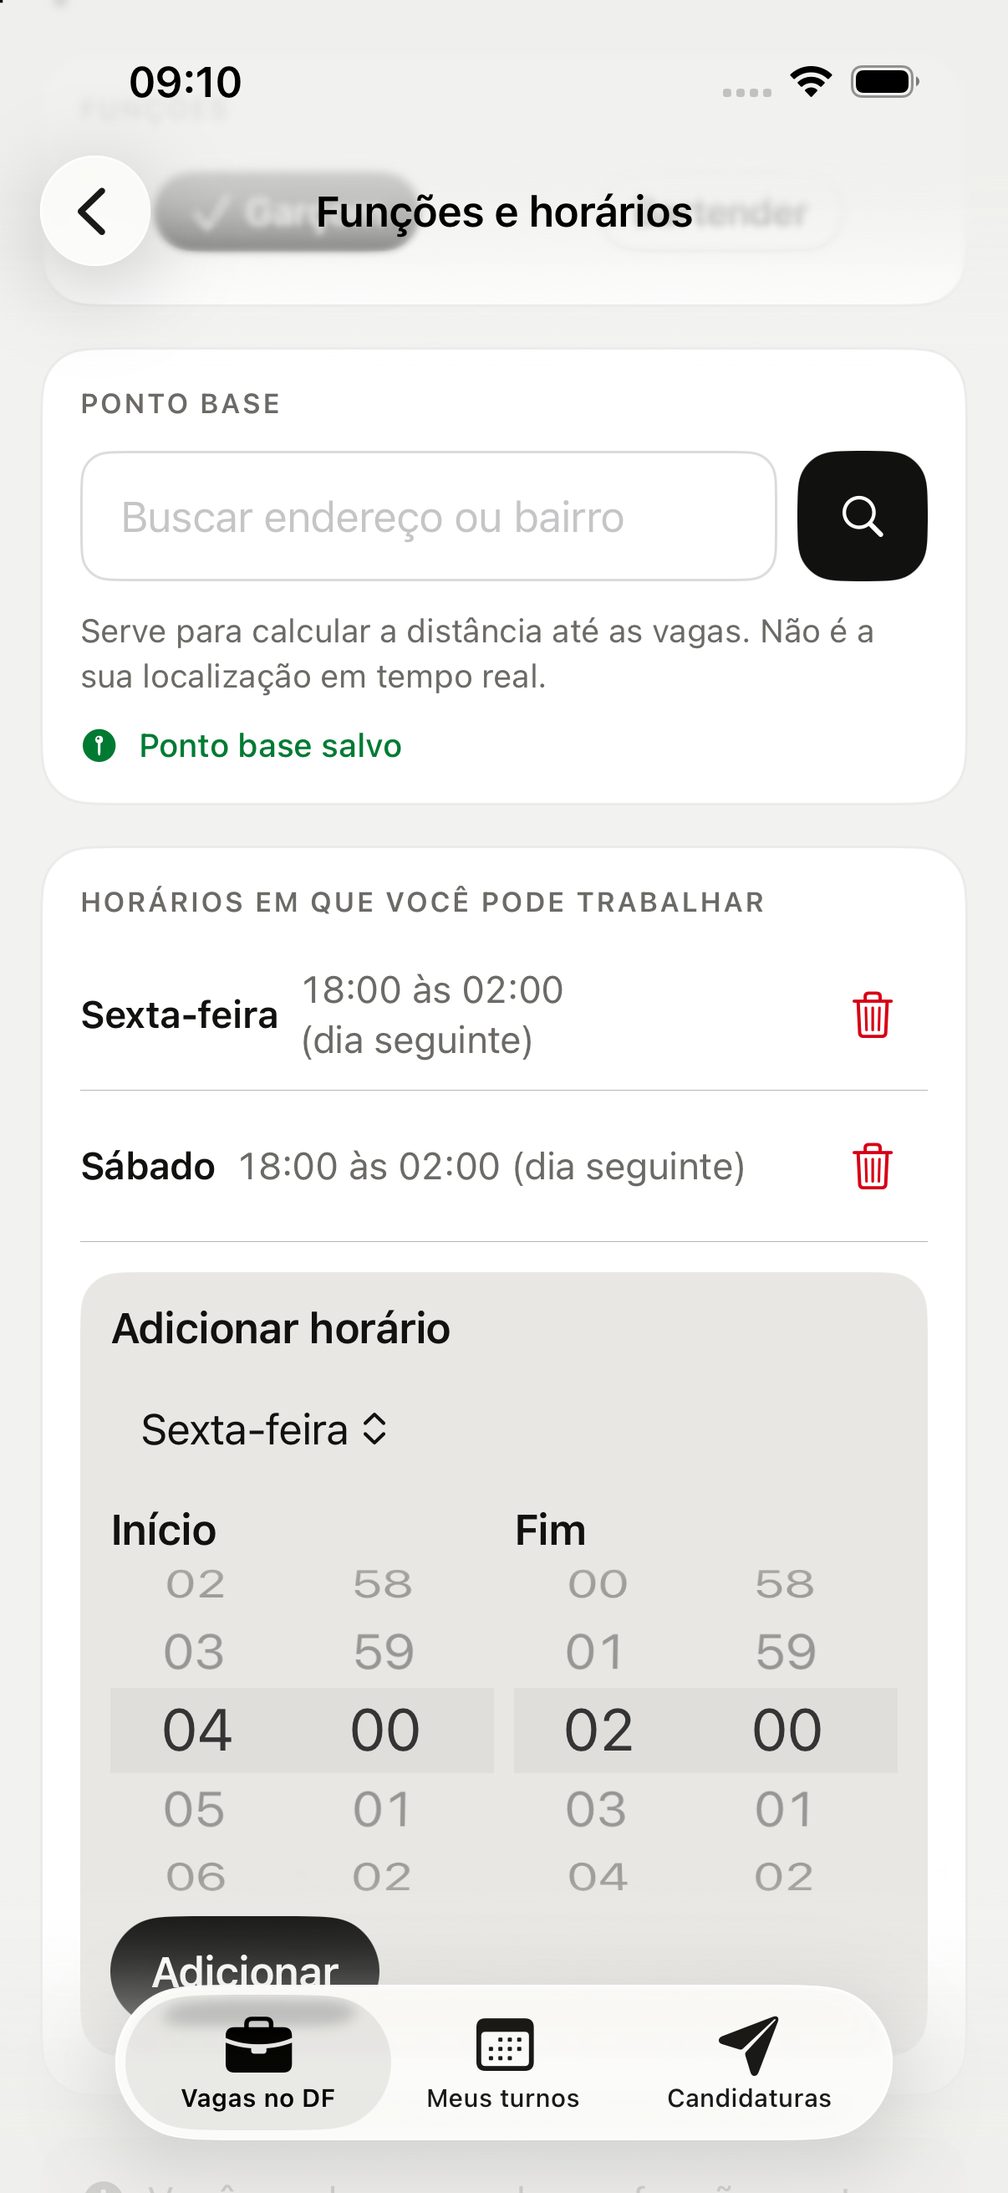
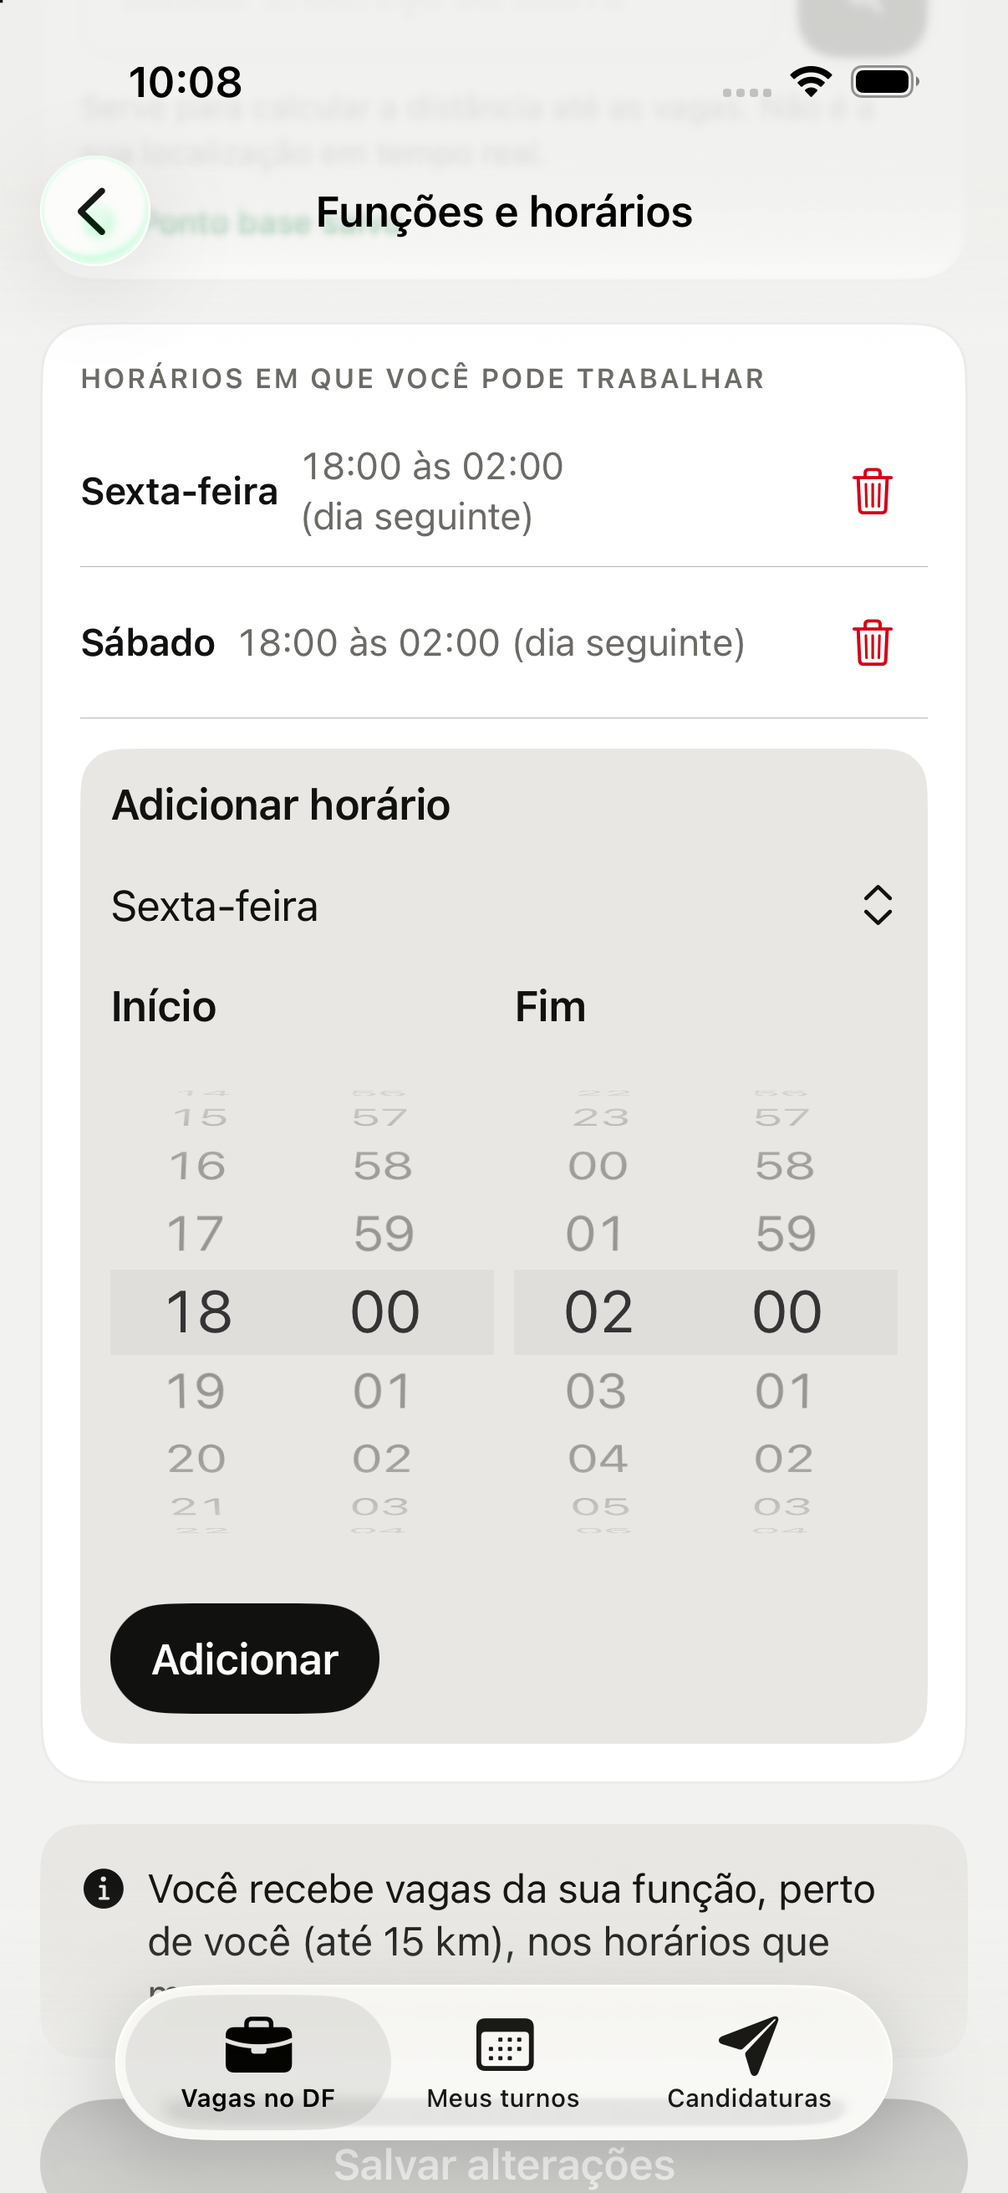
fix(ios): corrigir seletores em AX5 e cobrir limites de horário

diff --git a/iOS/Sources/Apresentacao/Fluxos/Profissional/TelaPerfilProfissional.swift b/iOS/Sources/Apresentacao/Fluxos/Profissional/TelaPerfilProfissional.swift
@@ -252,20 +252,31 @@ public struct TelaPerfilProfissional: View {
                     .font(FrilaTipo.rotuloDoCampo)
                     .foregroundStyle(FrilaCor.texto)
 
-                Picker(selection: $viewModel.diaNovo) {
-                    Text(verbatim: TextosDoProfissional.Perfil.domingo).tag(0)
-                    Text(verbatim: TextosDoProfissional.Perfil.segunda).tag(1)
-                    Text(verbatim: TextosDoProfissional.Perfil.terca).tag(2)
-                    Text(verbatim: TextosDoProfissional.Perfil.quarta).tag(3)
-                    Text(verbatim: TextosDoProfissional.Perfil.quinta).tag(4)
-                    Text(verbatim: TextosDoProfissional.Perfil.sexta).tag(5)
-                    Text(verbatim: TextosDoProfissional.Perfil.sabado).tag(6)
+                Menu {
+                    Picker(selection: $viewModel.diaNovo) {
+                        Text(verbatim: TextosDoProfissional.Perfil.domingo).tag(0)
+                        Text(verbatim: TextosDoProfissional.Perfil.segunda).tag(1)
+                        Text(verbatim: TextosDoProfissional.Perfil.terca).tag(2)
+                        Text(verbatim: TextosDoProfissional.Perfil.quarta).tag(3)
+                        Text(verbatim: TextosDoProfissional.Perfil.quinta).tag(4)
+                        Text(verbatim: TextosDoProfissional.Perfil.sexta).tag(5)
+                        Text(verbatim: TextosDoProfissional.Perfil.sabado).tag(6)
+                    } label: {
+                        Text(verbatim: TextosDoProfissional.Perfil.diaSemana)
+                    }
                 } label: {
-                    Text(verbatim: TextosDoProfissional.Perfil.diaSemana)
+                    HStack {
+                        Text(verbatim: PerfilProfissionalViewModel.nomeDoDia(viewModel.diaNovo))
+                            .fixedSize(horizontal: false, vertical: true)
+                        Spacer(minLength: FrilaEspaco.minimo)
+                        Image(systemName: "chevron.up.chevron.down")
+                            .accessibilityHidden(true)
+                    }
+                    .frame(maxWidth: .infinity, minHeight: FrilaMetrica.alvoMinimo, alignment: .leading)
+                    .contentShape(Rectangle())
                 }
-                .pickerStyle(.menu)
-                .frame(maxWidth: .infinity, minHeight: FrilaMetrica.alvoMinimo, alignment: .leading)
-                .contentShape(Rectangle())
+                .accessibilityLabel(TextosDoProfissional.Perfil.diaSemana)
+                .accessibilityValue(PerfilProfissionalViewModel.nomeDoDia(viewModel.diaNovo))
                 .accessibilityIdentifier("picker-dia-semana")
 
                 HStack(alignment: .top, spacing: FrilaEspaco.pequeno) {
@@ -279,8 +290,9 @@ public struct TelaPerfilProfissional: View {
                         .datePickerStyle(.wheel)
                         .labelsHidden()
                         .frame(minWidth: 0, maxWidth: .infinity)
-                        .frame(height: 132)
-                        .clipped()
+                        .frame(height: dynamicTypeSize.isAccessibilitySize ? 248 : 216)
+                        .clipShape(.rect)
+                        .contentShape(Rectangle())
                         .accessibilityIdentifier("campo-hora-inicio")
                     }
                     VStack(alignment: .leading, spacing: FrilaEspaco.minimo) {
@@ -293,8 +305,9 @@ public struct TelaPerfilProfissional: View {
                         .datePickerStyle(.wheel)
                         .labelsHidden()
                         .frame(minWidth: 0, maxWidth: .infinity)
-                        .frame(height: 132)
-                        .clipped()
+                        .frame(height: dynamicTypeSize.isAccessibilitySize ? 248 : 216)
+                        .clipShape(.rect)
+                        .contentShape(Rectangle())
                         .accessibilityIdentifier("campo-hora-fim")
                     }
                 }
@@ -312,6 +325,7 @@ public struct TelaPerfilProfissional: View {
                 }
                 .buttonStyle(.plain)
                 .contentShape(Rectangle())
+                .accessibilityLabel(TextosDoProfissional.Perfil.adicionarHorario)
                 .accessibilityIdentifier("botao-adicionar-janela")
             }
             .padding(FrilaEspaco.compacto)

diff --git a/iOS/Tests/Unitarios/PerfilProfissionalViewModelTests.swift b/iOS/Tests/Unitarios/PerfilProfissionalViewModelTests.swift
@@ -95,6 +95,59 @@ struct PerfilProfissionalViewModelTests {
         #expect(api.dadosPerfilCriado == nil)
     }
 
+    @Test("Faixa pendente 23:59–00:00 aceita a passagem da meia-noite")
+    func janelaPendenteNaViradaDoDia() async throws {
+        let api = criarDubleApi()
+        let vm = PerfilProfissionalViewModel(api: api)
+        vm.alternarFuncao(UUID())
+        vm.definirPontoBase(try Coordenada(latitude: -15.8, longitude: -47.9))
+        vm.inicioNovo = try #require(Calendar.current.date(bySettingHour: 23, minute: 59, second: 0, of: .now))
+        vm.fimNovo = try #require(Calendar.current.date(bySettingHour: 0, minute: 0, second: 0, of: .now))
+        let janela = JanelaDeDisponibilidade(diaDaSemana: 5, inicio: try HoraDoDia("23:59"), fim: try HoraDoDia("00:00"))
+
+        #expect(await vm.salvar())
+        #expect(api.dadosPerfilCriado?.disponibilidades == [janela])
+        #expect(vm.mensagemDeErro == nil)
+    }
+
+    @Test("Faixa pendente 00:00–00:00 rejeita duração zero sem enviar à API")
+    func janelaPendenteMeiaNoiteIgualRejeitada() async throws {
+        let api = criarDubleApi()
+        let vm = PerfilProfissionalViewModel(api: api)
+        vm.alternarFuncao(UUID())
+        vm.definirPontoBase(try Coordenada(latitude: -15.8, longitude: -47.9))
+        vm.inicioNovo = try #require(Calendar.current.date(bySettingHour: 0, minute: 0, second: 0, of: .now))
+        vm.fimNovo = vm.inicioNovo
+
+        #expect(await vm.salvar() == false)
+        #expect(vm.temJanelaPendente)
+        #expect(vm.disponibilidades.isEmpty)
+        #expect(vm.mensagemDeErro == TextosDoProfissional.Perfil.erroJanelaDuracaoZero)
+        #expect(api.chamadasCriarPerfil == 0)
+    }
+
+    @Test("Corrigir a faixa pendente inválida permite salvar e limpa a mensagem anterior")
+    func corrigirJanelaPendenteLimpaMensagem() async throws {
+        let api = criarDubleApi()
+        let vm = PerfilProfissionalViewModel(api: api)
+        vm.alternarFuncao(UUID())
+        vm.definirPontoBase(try Coordenada(latitude: -15.8, longitude: -47.9))
+        vm.inicioNovo = try #require(Calendar.current.date(bySettingHour: 18, minute: 0, second: 0, of: .now))
+        vm.fimNovo = vm.inicioNovo
+        #expect(await vm.salvar() == false)
+        #expect(vm.mensagemDeErro == TextosDoProfissional.Perfil.erroJanelaDuracaoZero)
+        #expect(api.chamadasCriarPerfil == 0)
+
+        vm.fimNovo = try #require(Calendar.current.date(bySettingHour: 2, minute: 0, second: 0, of: .now))
+        let janela = JanelaDeDisponibilidade(diaDaSemana: 5, inicio: try HoraDoDia("18:00"), fim: try HoraDoDia("02:00"))
+        #expect(await vm.salvar())
+        #expect(api.chamadasCriarPerfil == 1)
+        #expect(api.dadosPerfilCriado?.disponibilidades == [janela])
+        #expect(vm.sucesso)
+        #expect(!vm.temJanelaPendente)
+        #expect(vm.mensagemDeErro == nil)
+    }
+
     @Test("Adicionar explicitamente limpa a pendência e salvar não recria faixa removida")
     func adicionarLimpaPendencia() async throws {
         let api = criarDubleApi()

diff --git a/iOS/Tests/UI/AcessibilidadeDoProfissionalUITests.swift b/iOS/Tests/UI/AcessibilidadeDoProfissionalUITests.swift
@@ -172,10 +172,15 @@ final class AcessibilidadeDoProfissionalUITests: XCTestCase {
         let pickerDia = app.descendants(matching: .any)["picker-dia-semana"]
         XCTAssertTrue(pickerDia.waitForExistence(timeout: 10))
         XCTAssertAlvoMinimo(pickerDia.frame.height)
+        XCTAssertAlvoMinimo(pickerDia.frame.width)
+        XCTAssertEqual(pickerDia.label, "Dia da semana")
+        XCTAssertEqual(pickerDia.value as? String, "Sexta-feira")
 
         let botaoAdicionar = app.buttons["botao-adicionar-janela"]
         XCTAssertTrue(botaoAdicionar.waitForExistence(timeout: 10))
         XCTAssertAlvoMinimo(botaoAdicionar.frame.height)
+        XCTAssertAlvoMinimo(botaoAdicionar.frame.width)
+        XCTAssertEqual(botaoAdicionar.label, "Adicionar horário")
 
         let remover = app.buttons.matching(NSPredicate(format: "identifier BEGINSWITH 'remover-janela-'")).firstMatch
         if remover.waitForExistence(timeout: 5) {
@@ -184,14 +189,17 @@ final class AcessibilidadeDoProfissionalUITests: XCTestCase {
         }
 
         let seletorInicio = app.datePickers["campo-hora-inicio"]
+        let horasAntesDaRolagem = seletorInicio.pickerWheels.allElementsBoundByIndex.map { $0.value as? String }
         for _ in 0..<12 {
-            let quadro = seletorInicio.frame
+            let quadro = pickerDia.frame.union(seletorInicio.frame)
             if quadro.minY > 130, quadro.maxY < app.frame.maxY - 140 { break }
             let subir = quadro.maxY >= app.frame.maxY - 140
-            let inicio = app.coordinate(withNormalizedOffset: CGVector(dx: 0.08, dy: subir ? 0.75 : 0.40))
-            let fim = app.coordinate(withNormalizedOffset: CGVector(dx: 0.08, dy: subir ? 0.50 : 0.55))
+            let inicio = app.coordinate(withNormalizedOffset: CGVector(dx: 0.04, dy: subir ? 0.75 : 0.40))
+            let fim = app.coordinate(withNormalizedOffset: CGVector(dx: 0.04, dy: subir ? 0.50 : 0.55))
             inicio.press(forDuration: 0.05, thenDragTo: fim)
         }
+        XCTAssertTrue(pickerDia.isHittable)
+        XCTAssertEqual(seletorInicio.pickerWheels.allElementsBoundByIndex.map { $0.value as? String }, horasAntesDaRolagem)
         capturarDisponibilidade(app, nome: ax5 ? "horarios-ax5" : "horarios-padrao")
         for (id, rotulo) in [("campo-hora-inicio", "Início"), ("campo-hora-fim", "Fim")] {
             let seletor = app.datePickers[id]
@@ -202,6 +210,11 @@ final class AcessibilidadeDoProfissionalUITests: XCTestCase {
             XCTAssertTrue(seletor.isHittable)
             XCTAssertFalse(app.textFields[id].exists)
         }
+        pickerDia.tap()
+        let domingo = app.buttons["Domingo"]
+        XCTAssertTrue(domingo.waitForExistence(timeout: 5))
+        domingo.tap()
+        XCTAssertEqual(pickerDia.value as? String, "Domingo")
     }
 
     private func capturarDisponibilidade(_ app: XCUIApplication, nome: String) {

diff --git a/evidencias/ux-04-perfil-profissional/README.md b/evidencias/ux-04-perfil-profissional/README.md
@@ -2,37 +2,37 @@
 
 ## Comportamento
 
-As horas usam `DatePicker(.hourAndMinute)` com estilo `.wheel`. Início e fim ficam lado a lado, cada roda com altura de 132 pt e `.clipped()`. Os rótulos nativos continuam disponíveis para VoiceOver mesmo com `.labelsHidden()`; adicionar outro `accessibilityLabel` repetia o nome no iOS 26.5 e foi removido.
+As horas usam `DatePicker(.hourAndMinute)` com estilo `.wheel`, lado a lado. Cada roda tem 216 pt no padrão e 248 pt nos tamanhos de acessibilidade, conforme `dynamicTypeSize.isAccessibilitySize`. A altura acomoda o conteúdo nativo sem cortar texto. `clipShape(.rect)` e `contentShape` contêm o desenho e a interação em cada coluna; não há `.clipped()` nem redução do tamanho do texto. Os rótulos nativos Início/Fim continuam disponíveis para VoiceOver com `.labelsHidden()`.
+
+O dia continua sendo selecionado com Picker em menu nativo. O rótulo do menu tem altura livre e mostra “Sexta-feira” inteiro em AX5. Adicionar anuncia “Adicionar horário”, reutilizando `TextosDoProfissional.Perfil.adicionarHorario` e o catálogo existente.
 
 Editar dia, início ou fim marca a faixa como pendente. Salvar inclui essa faixa antes do envio, tanto na criação quanto na edição. Adicionar explicitamente limpa a pendência; remover depois não recria a faixa. Uma falha de rede conserva a lista e a repetição não duplica a faixa. A sugestão inicial sem interação não é adicionada automaticamente.
 
-Início igual ao fim bloqueia o envio. Fim anterior ao início continua válido, inclusive 18:00–02:00, conforme esclarecimento de Nick Fury no arquivo da missão (#98 C2).
+Início igual ao fim bloqueia o envio. Fim anterior ao início continua válido, inclusive 18:00–02:00 e 23:59–00:00, conforme esclarecimento de Nick Fury (#98 C2). A devolução acrescenta três testes: 23:59–00:00 aceito, 00:00–00:00 rejeitado sem chamada à API e inválido → salvar → corrigir → salvar com mensagem limpa.
 
-## Ambiente e capturas executadas
+## Ambiente e capturas desta revisão
 
-17/10/2026, simulador Homem-Aranha, iPhone 17, iOS 26.5, UDID `85940BCB-553C-4145-8F8E-E83423D86431`; dados fictícios do cenário `success`. Resolução original: 1206 × 2622 pixels. Tamanho padrão e `UICTContentSizeCategoryAccessibilityXXXL` (AX5).
+17/10/2026, 10:07–10:08, simulador Homem-Aranha, iPhone 17, iOS 26.5, UDID `85940BCB-553C-4145-8F8E-E83423D86431`; dados fictícios do cenário `success`. Resolução original: 1206 × 2622 pixels. Tamanho padrão e `UICTContentSizeCategoryAccessibilityXXXL` (AX5).
 
 O portal não fornecia stream com o canvas fechado. Por autorização expressa do usuário, as imagens foram obtidas com `xcrun simctl io <UDID> screenshot <arquivo>`, somente nesse UDID, segurando a vez pela fila. Navegação e rolagens foram feitas por XCTest. Não foi aberto o aplicativo Simulator. As pausas temporárias usadas para sincronizar a coleta foram removidas do teste entregue; os anexos XCTest permanecem.
 
-| Arquivo | Passo verificado visualmente |
+| Arquivo | Passo conferido visualmente nesta revisão |
 | --- | --- |
-| [horarios-padrao.png](horarios-padrao.png) | Seção com as duas roletas, rótulos, botão Adicionar e janela noturna existente |
-| [horarios-ax5.png](horarios-ax5.png) | Mesma seção no maior tamanho de texto; roletas lado a lado e Adicionar visível |
+| [horarios-padrao.png](horarios-padrao.png) | Dia inteiro, duas rodas contidas nas colunas, Início/Fim, Adicionar e janela noturna existente |
+| [horarios-ax5.png](horarios-ax5.png) | “Sexta-feira” inteiro em AX5, duas rodas lado a lado e Adicionar visível |
 | [perfil-padrao.png](perfil-padrao.png) | Tela vizinha Meu perfil, antes de abrir Funções e horários |
-| [perfil-ax5.png](perfil-ax5.png) | Tela vizinha em AX5; texto existente quebra em várias linhas, sem alteração por esta missão |
+| [perfil-ax5.png](perfil-ax5.png) | Tela vizinha em AX5; quebras de linha existentes no telefone/e-mail, sem alteração nesta missão |
 
-## Testes executados
+## Testes executados nesta revisão
 
-Todos os comandos Xcode passaram por `vigia/xcb.sh 'Homem-Aranha' -- xcodebuild test`, esquema `Frila-Local`, destino acima, assinatura desativada e DerivedData próprio.
+Todos os comandos Xcode passaram por `vigia/xcb.sh 'Homem-Aranha' -- xcodebuild test`, esquema `Frila-Local`, destino acima, paralelismo desativado e DerivedData próprio. As execuções direcionadas usaram `CODE_SIGNING_ALLOWED=NO`; a suíte completa final usou assinatura ad hoc (`CODE_SIGNING_ALLOWED=YES CODE_SIGN_IDENTITY=-`), como exige o acesso real ao Keychain no simulador.
 
-- `-only-testing:FrilaTests/PerfilProfissionalViewModelTests`: **25 passaram, 0 falharam**, incluindo criação/edição com faixa pendente noturna, igualdade, exclusão após adição e repetição após falha de rede.
-  Log: `/Users/cauecarneiro/Documents/Projetos/Apps/.workers/vigia/logs-xcodebuild/homem-aranha-20261017-085549-16186.log`.
-- Dois testes UI do perfil, padrão e AX5, com estilo wheel final: **2 passaram, 0 falharam**. Verificaram seletor nativo, rótulos Início/Fim, altura mínima de 44 pt, controles tocáveis e ausência dos campos livres. Essa execução produziu as quatro imagens acima.
-  Log: `/Users/cauecarneiro/Documents/Projetos/Apps/.workers/vigia/logs-xcodebuild/homem-aranha-20261017-091002-81905.log`.
+- Classes `PerfilProfissionalViewModelTests` e `PerfisDaContaTests`: **46 passaram, 0 falharam**, incluindo os três novos testes pedidos na devolução. Log: `/Users/cauecarneiro/Documents/Projetos/Apps/.workers/vigia/logs-xcodebuild/homem-aranha-20261017-100312-97102.log`. A inspeção das primeiras imagens desta execução identificou desenho das rodas fora das colunas; essa versão foi corrigida e suas capturas substituídas.
+- Dois testes UI, padrão e AX5, com a altura e contenção finais: **2 passaram, 0 falharam**. Esta execução gerou as quatro imagens acima. Conferiu largura e altura mínimas de 44 pt em dia, Adicionar, Remover e rodas; nomes/valor do dia; rótulos Início/Fim e Adicionar horário; tocabilidade; troca do dia pelo menu; rolagem sem mudar a hora. Log: `/Users/cauecarneiro/Documents/Projetos/Apps/.workers/vigia/logs-xcodebuild/homem-aranha-20261017-100711-11445.log`.
+- Regressão final sem pausas de captura, com `-only-testing:FrilaTests` e os dois testes UI acima: **1.252 passaram, 0 falharam, 0 pulados** (1.250 unitários e 2 UI). Log: `/Users/cauecarneiro/Documents/Projetos/Apps/.workers/vigia/logs-xcodebuild/homem-aranha-20261017-101048-15621.log`.
+- A tentativa de suíte completa sem assinatura falhou em 6 testes de Keychain (9 ocorrências, incluindo `-34018`). A repetição com assinatura ad hoc resolveu essas falhas sem mudança de código. Log da tentativa sem assinatura: `/Users/cauecarneiro/Documents/Projetos/Apps/.workers/vigia/logs-xcodebuild/homem-aranha-20261017-100916-13759.log`.
 - `iOS/Scripts/conferir-textos.sh`, `iOS/Scripts/conferir-datas-fixas.sh` e `git diff --check`: aprovados.
-
-As tentativas compactas foram descartadas após o alvo nativo medir 36 pt. A primeira execução com wheel detectou rótulo duplicado e rolagem inadequada do teste; ambos corrigidos. A rolagem final ocorre pela margem e usa o quadro do seletor como referência, evitando girar a roda ao tentar deslocar a tela.
 
 ## Limites
 
-A validação de VoiceOver executada confere os rótulos na árvore de acessibilidade; não houve escuta manual com VoiceOver ligado. Não houve TestFlight, backend real nem mudança do contrato. Revisão `swiftui-pro` restrita ao diff, sem modernização de outras telas.
+A validação de VoiceOver confere os rótulos na árvore de acessibilidade; não houve escuta manual com VoiceOver ligado. A suíte completa de interface não foi executada localmente: `iOS/Docs/CI.md` registra aproximadamente 71 minutos, acima do teto de 40 minutos desta devolução. A CI remota deve ser consultada no [PR #370](https://github.com/FrilaApp/frila-frontend/pull/370); este documento registra resultados locais. Não houve TestFlight nem mudança de backend ou contrato. Revisão `swiftui-pro` restrita ao diff, sem modernização de outras telas.

diff --git a/iOS/Docs/Acessibilidade.md b/iOS/Docs/Acessibilidade.md
@@ -383,7 +383,10 @@ falha esperada da tela corrigida, rode a suíte e atualize a tabela acima.
 
 `TelaPerfilProfissional` usa `DatePicker` nativo com `.hourAndMinute`, rótulos
 “Início” e “Fim” para VoiceOver e teste de alvo mínimo de 44 pt nos dois eixos.
-As roletas ficam lado a lado, com altura limitada a 132 pt e recorte, inclusive em AX5. Alterar dia,
+As roletas ficam lado a lado, com 216 pt no padrão e 248 pt nos tamanhos de
+acessibilidade. O conteúdo fica contido em cada coluna sem cortar o texto nativo.
+O menu nativo do dia usa um rótulo com altura livre para não cortar
+“Sexta-feira” em AX5. Adicionar anuncia “Adicionar horário”. Alterar dia,
 início ou fim deixa a faixa pendente; salvar a incorpora à lista antes do envio.
 A sugestão inicial, sem edição, não cria uma faixa. A adição explícita limpa a pendência.
 Início e fim iguais bloqueiam o envio; faixas noturnas continuam aceitas (#98 C2).

diff --git a/iOS/Docs/AuditoriaDeTextosSprint1.md b/iOS/Docs/AuditoriaDeTextosSprint1.md
@@ -256,6 +256,7 @@ Em conformidade estrita com o arquivo da missão e as atribuições da equipe, a
 
 Os campos livres de hora foram substituídos por seletores nativos. “Início”, “Fim”,
 “Dia da semana” e “Adicionar” reutilizam os textos já localizados; não há texto novo.
+O rótulo acessível de Adicionar reutiliza “Adicionar horário” de `TextosDoProfissional.Perfil`.
 O aviso de formato “Horário inválido. Use o formato HH:mm.” deixa de ser necessário
 na entrada normal da tela. O bloqueio de duração zero conserva a mensagem existente.
 Faixas noturnas mantêm a indicação “(dia seguinte)” (#98 C2), conforme alinhamento
